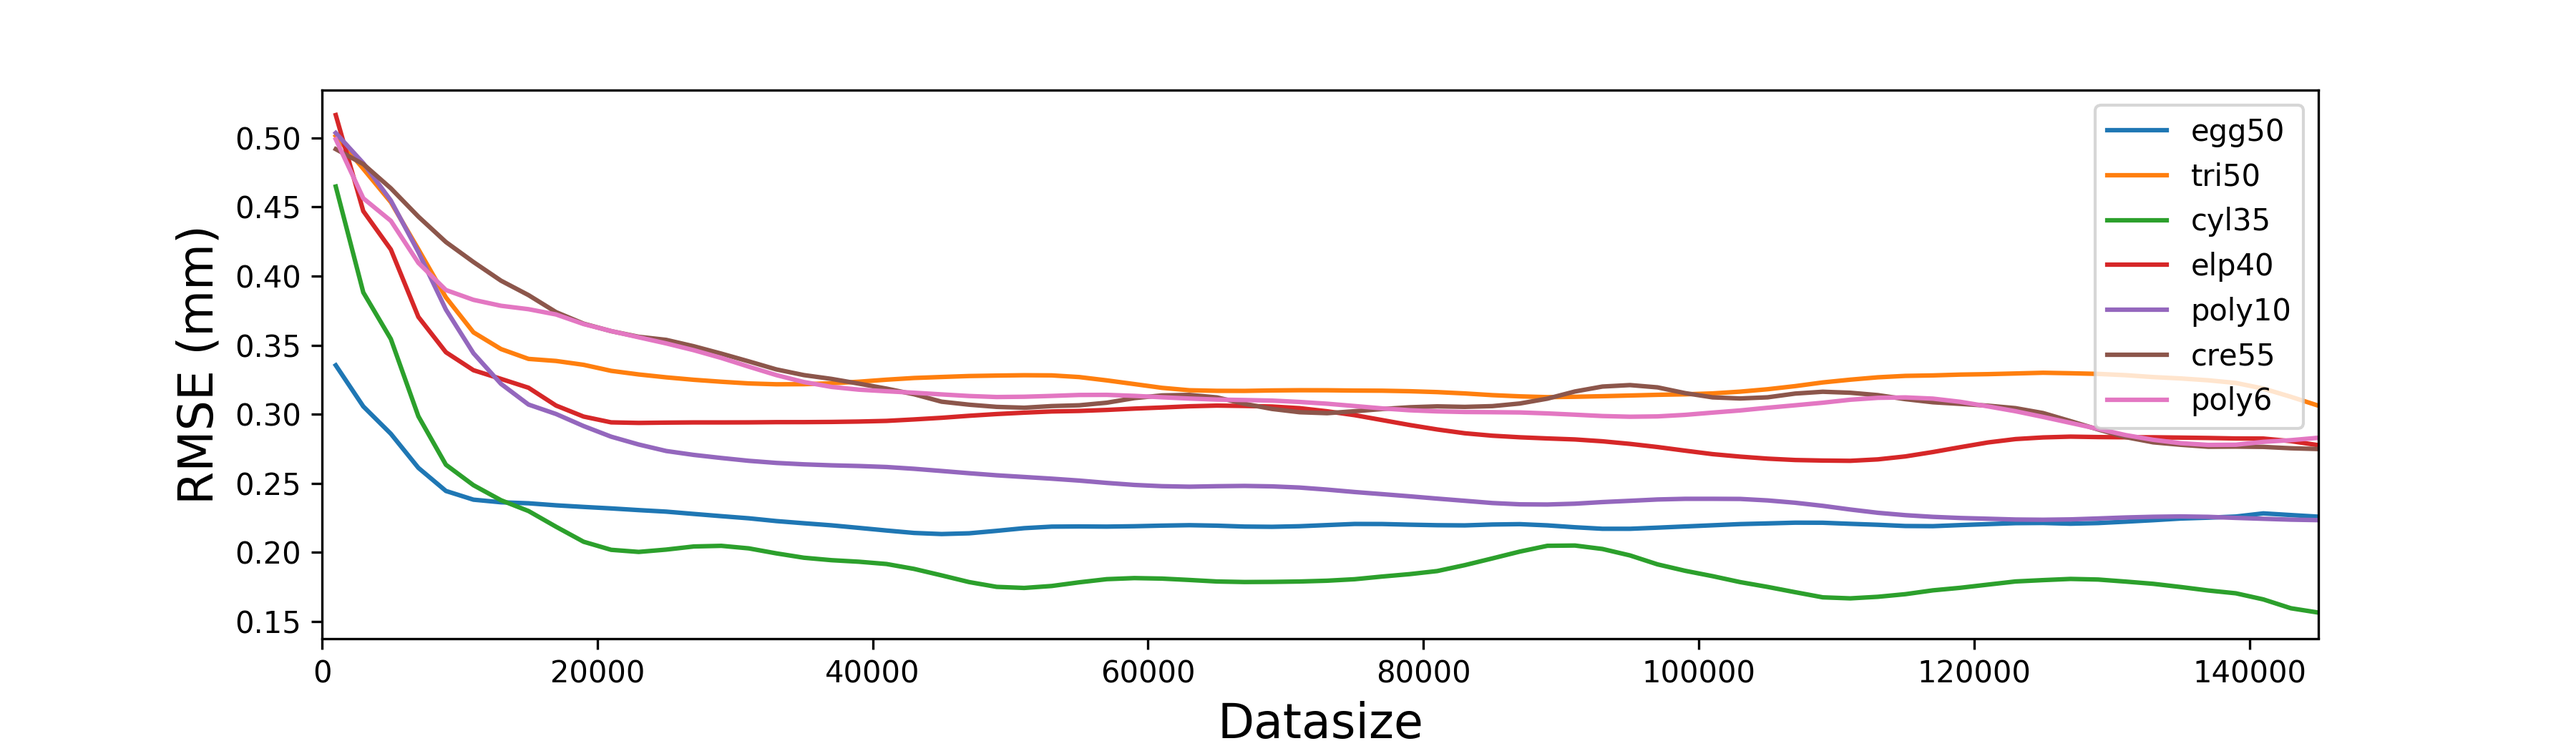
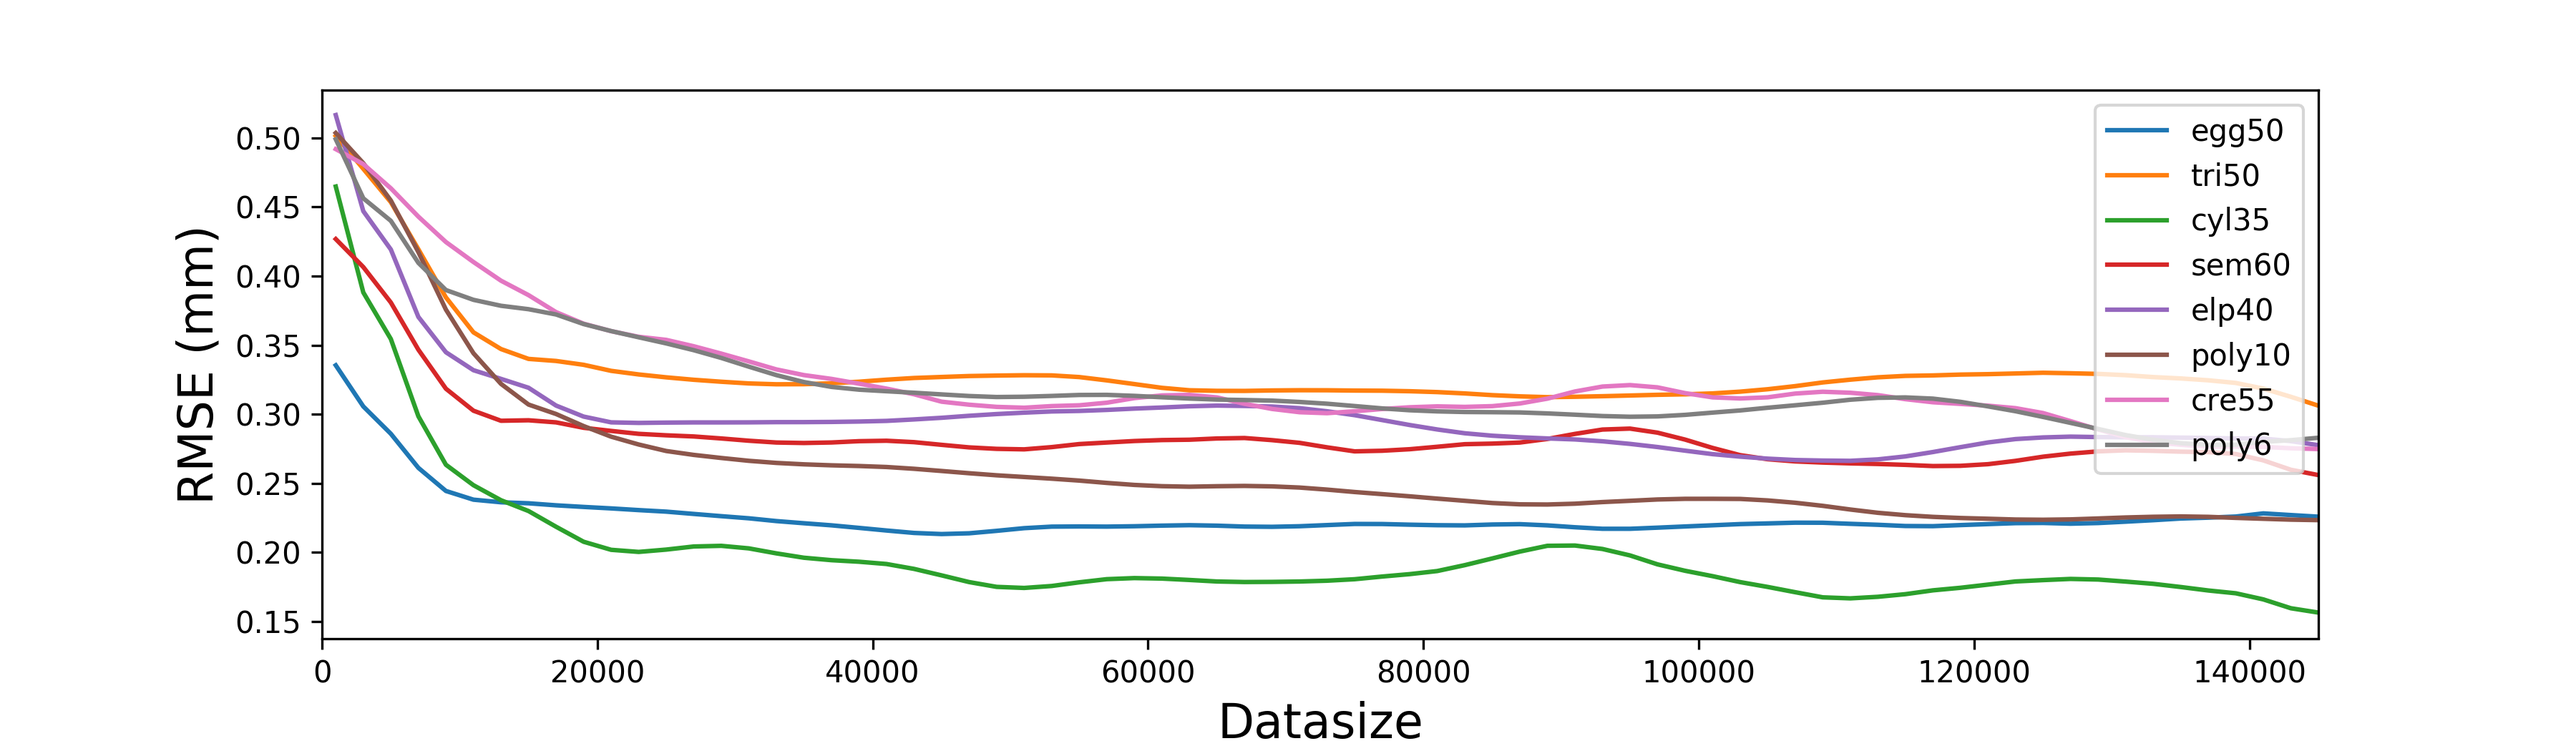
sem60

diff --git a/gpup_gp_node/src/for_paper/error_analysis_sum.py b/gpup_gp_node/src/for_paper/error_analysis_sum.py
@@ -111,111 +111,111 @@ def plato(G, n = 100):
 
 
 ###### Error-horizon plot ######
-files_pkl = glob.glob(path + 'prediction_analysis_' + "*_gp.pkl")
+# files_pkl = glob.glob(path + 'prediction_analysis_' + "*_gp.pkl")
 
-plt.figure(figsize=(12, 3.7))
-plt.yscale('log',basey=10) 
-for F in files_pkl:
+# plt.figure(figsize=(12, 3.7))
+# plt.yscale('log',basey=10) 
+# for F in files_pkl:
 
-    if F.find('_red') > 0 or F.find('_w_') > 0:
-        continue
+#     if F.find('_red') > 0 or F.find('_w_') > 0:
+#         continue
 
-    with open(F, 'r') as f: 
-        Ggp = np.array(pickle.load(f))
+#     with open(F, 'r') as f: 
+#         Ggp = np.array(pickle.load(f))
 
-    ix = F.find('analysis_') + 9
-    obj = F[ix:ix+5]
+#     ix = F.find('analysis_') + 9
+#     obj = F[ix:ix+5]
 
-    lgp, Egp, Sgp = plato(Ggp, 50)
+#     lgp, Egp, Sgp = plato(Ggp, 50)
 
-    if obj == 'str40':
-        Egp = medfilter(Egp, 10)
-        Egp[45] *= 0.95
-        Egp[:] = medfilter(Egp[:], 6)
-        Egp[0:] = medfilter(Egp[0:], 6)
-    elif obj == 'cyl30':
-        Egp = medfilter(Egp, 10)
-        Egp[46:48] *= 1.7
-        Egp[47] *= 1.4
-        Egp[-1] *= 2.
-        Egp[35:] = medfilter(Egp[35:], 5)
-        Egp = np.append(Egp, Egp[-1])
-        lgp = np.append(lgp, 100)
-        Egp[0:] = medfilter(Egp[0:], 6)
-    elif obj == 'egg50':
-        Egp = medfilter(Egp, 20)
-        Egp[44] *= 1.4
-        Egp[41] *= 0.9
-        Egp[43:47] *= 1.1
-        Egp[48] *= 0.95
-        Egp[39:] = medfilter(Egp[39:], 6)
-        Egp = np.append(Egp, Egp[-1]*1.05)
-        lgp = np.append(lgp, 100)
-        Egp[0:] = medfilter(Egp[0:], 6)
-        Egp[1] = (Egp[1-1]+Egp[1+1])/2
-    elif obj == 'poly6':
-        Egp = medfilter(Egp, 20)
-        Egp[39:] = medfilter(Egp[39:], 7)
-        Egp = np.append(Egp, Egp[-1]*1.05)
-        lgp = np.append(lgp, 100)
-        Egp[0:] = medfilter(Egp[0:], 6)
-        Egp[1] = (Egp[1-1]+Egp[1+1])/2
-    elif obj == 'sqr30':
-        Egp = medfilter(Egp, 15)
-        Egp[35:] *= 1.07
-        Egp[35] = (Egp[35-2]+Egp[35+2])/2
-        Egp[36] = (Egp[36-2]+Egp[36+2])/2
-        Egp[37] = 16.5
-        Egp[0:] = medfilter(Egp[0:], 3)
-        Egp[0:] = medfilter(Egp[0:], 6)
-    elif obj == 'elp40':
-        Egp = medfilter(Egp, 10)
-        Egp[38] *= 1.05
-        Egp[35:] = medfilter(Egp[35:], 6)
-        Egp[0:] = medfilter(Egp[0:], 6)
-    elif obj == 'cyl45':
-        Egp = medfilter(Egp, 10)
-        Egp[42] = (Egp[42-1]+Egp[42+1])/2
-        Egp = np.append(Egp, Egp[-1]*1.05)
-        lgp = np.append(lgp, 100)
-        Egp[20:] = medfilter(Egp[20:], 3)
-        Egp[0:] = medfilter(Egp[0:], 6)
-    elif obj == 'cre55':
-        Egp = medfilter(Egp, 10)
-        Egp[35:] = medfilter(Egp[35:], 5)
-        Egp = np.append(Egp, Egp[-1]*1.05)
-        lgp = np.append(lgp, 100)
-        Egp[0:] = medfilter(Egp[0:], 6)
-    elif obj == 'rec60':
-        Egp = medfilter(Egp, 10)
-        Egp[:] = medfilter(Egp[:], 6)
-    elif obj == 'poly1':
-        Egp = medfilter(Egp, 10)
-        Egp[:] = medfilter(Egp[:], 6)
-    elif obj == 'tri50':
-        Egp = medfilter(Egp, 10)
-        Egp[:] = medfilter(Egp[:], 6)
-    elif obj == 'sem60':
-        Egp = medfilter(Egp, 10)
-        Egp[:] = medfilter(Egp[:], 6)
-        Egp[2] = (Egp[1]+Egp[3])/2
-    else:
-        Egp = medfilter(Egp, 10)
-        Egp[0:] = medfilter(Egp[0:], 6)
+#     if obj == 'str40':
+#         Egp = medfilter(Egp, 10)
+#         Egp[45] *= 0.95
+#         Egp[:] = medfilter(Egp[:], 6)
+#         Egp[0:] = medfilter(Egp[0:], 6)
+#     elif obj == 'cyl30':
+#         Egp = medfilter(Egp, 10)
+#         Egp[46:48] *= 1.7
+#         Egp[47] *= 1.4
+#         Egp[-1] *= 2.
+#         Egp[35:] = medfilter(Egp[35:], 5)
+#         Egp = np.append(Egp, Egp[-1])
+#         lgp = np.append(lgp, 100)
+#         Egp[0:] = medfilter(Egp[0:], 6)
+#     elif obj == 'egg50':
+#         Egp = medfilter(Egp, 20)
+#         Egp[44] *= 1.4
+#         Egp[41] *= 0.9
+#         Egp[43:47] *= 1.1
+#         Egp[48] *= 0.95
+#         Egp[39:] = medfilter(Egp[39:], 6)
+#         Egp = np.append(Egp, Egp[-1]*1.05)
+#         lgp = np.append(lgp, 100)
+#         Egp[0:] = medfilter(Egp[0:], 6)
+#         Egp[1] = (Egp[1-1]+Egp[1+1])/2
+#     elif obj == 'poly6':
+#         Egp = medfilter(Egp, 20)
+#         Egp[39:] = medfilter(Egp[39:], 7)
+#         Egp = np.append(Egp, Egp[-1]*1.05)
+#         lgp = np.append(lgp, 100)
+#         Egp[0:] = medfilter(Egp[0:], 6)
+#         Egp[1] = (Egp[1-1]+Egp[1+1])/2
+#     elif obj == 'sqr30':
+#         Egp = medfilter(Egp, 15)
+#         Egp[35:] *= 1.07
+#         Egp[35] = (Egp[35-2]+Egp[35+2])/2
+#         Egp[36] = (Egp[36-2]+Egp[36+2])/2
+#         Egp[37] = 16.5
+#         Egp[0:] = medfilter(Egp[0:], 3)
+#         Egp[0:] = medfilter(Egp[0:], 6)
+#     elif obj == 'elp40':
+#         Egp = medfilter(Egp, 10)
+#         Egp[38] *= 1.05
+#         Egp[35:] = medfilter(Egp[35:], 6)
+#         Egp[0:] = medfilter(Egp[0:], 6)
+#     elif obj == 'cyl45':
+#         Egp = medfilter(Egp, 10)
+#         Egp[42] = (Egp[42-1]+Egp[42+1])/2
+#         Egp = np.append(Egp, Egp[-1]*1.05)
+#         lgp = np.append(lgp, 100)
+#         Egp[20:] = medfilter(Egp[20:], 3)
+#         Egp[0:] = medfilter(Egp[0:], 6)
+#     elif obj == 'cre55':
+#         Egp = medfilter(Egp, 10)
+#         Egp[35:] = medfilter(Egp[35:], 5)
+#         Egp = np.append(Egp, Egp[-1]*1.05)
+#         lgp = np.append(lgp, 100)
+#         Egp[0:] = medfilter(Egp[0:], 6)
+#     elif obj == 'rec60':
+#         Egp = medfilter(Egp, 10)
+#         Egp[:] = medfilter(Egp[:], 6)
+#     elif obj == 'poly1':
+#         Egp = medfilter(Egp, 10)
+#         Egp[:] = medfilter(Egp[:], 6)
+#     elif obj == 'tri50':
+#         Egp = medfilter(Egp, 10)
+#         Egp[:] = medfilter(Egp[:], 6)
+#     elif obj == 'sem60':
+#         Egp = medfilter(Egp, 10)
+#         Egp[:] = medfilter(Egp[:], 6)
+#         Egp[2] = (Egp[1]+Egp[3])/2
+#     else:
+#         Egp = medfilter(Egp, 10)
+#         Egp[0:] = medfilter(Egp[0:], 6)
 
-    plt.plot(lgp, Egp, '-', label = obj)
+#     plt.plot(lgp, Egp, '-', label = obj)
 
-plt.xlabel('Horizon (mm)', fontsize=16)
-plt.ylabel('RMSE (mm)', fontsize=16)
-# plt.title('GP Prediction error')
-plt.legend(ncol=2, loc='lower right')
-plt.xlim([0,100])
-plt.ylim([0.34,25])
-plt.gcf().subplots_adjust(bottom=0.15)
-plt.savefig(path + 'pred_all_modeling.png', dpi=300) #str(np.random.randint(100000))
-# plt.show()
+# plt.xlabel('Horizon (mm)', fontsize=16)
+# plt.ylabel('RMSE (mm)', fontsize=16)
+# # plt.title('GP Prediction error')
+# plt.legend(ncol=2, loc='lower right')
+# plt.xlim([0,100])
+# plt.ylim([0.34,25])
+# plt.gcf().subplots_adjust(bottom=0.15)
+# plt.savefig(path + 'pred_all_modeling.png', dpi=300) #str(np.random.randint(100000))
+# # plt.show()
 
-exit(1)
+# exit(1)
 
 # Error-datasize plot
 files_pkl = glob.glob(path + 'datasize_analysis_' + "*_gp.pkl")
@@ -268,6 +268,12 @@ for F in files_pkl:
         Ggp[1] = (Ggp[0]+Ggp[2])/2.
         # Ggp[2] *= 0.9
         Ggp = medfilter(Ggp, 4)
+    if obj == 'sem60':
+        Ggp = medfilter(Ggp, 10)
+        Ggp[0] *= 1.05
+        Ggp[1] = (Ggp[0]+Ggp[2])/2.
+        # Ggp[2] *= 0.9
+        Ggp = medfilter(Ggp, 3)
     if obj == 'cyl45': # This needs to be recalculated
         continue
         # Ggp = medfilter(np.array(Ggp), 10)
@@ -292,10 +298,10 @@ plt.legend()
 plt.xlim([0,145000])
 # plt.ylim([0,3])
 plt.gcf().subplots_adjust(bottom=0.15)
-# plt.savefig(path + 'datasize_all.png', dpi=300) #str(np.random.randint(100000))
+plt.savefig(path + 'datasize_all.png', dpi=300) #str(np.random.randint(100000))
 
 # plt.show()
-# exit(1)
+exit(1)
 
 ###### Hands comparison ######
 plt.figure(figsize=(12, 3.5))
